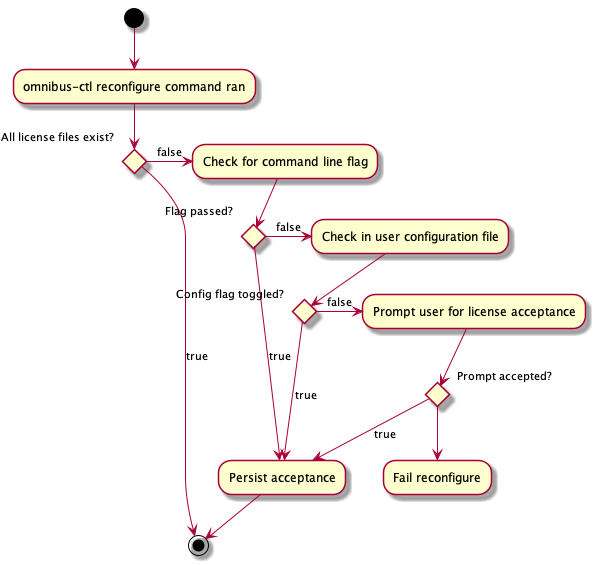
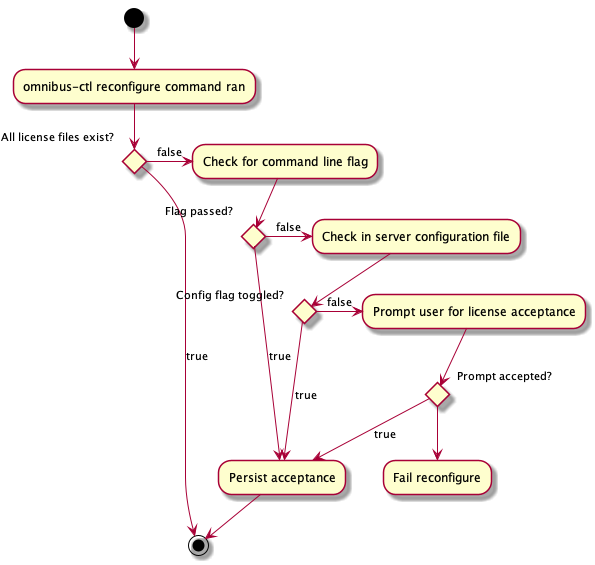
Updating for review comments

diff --git a/README.md b/README.md
@@ -1,5 +1,7 @@
 # Chef License Acceptance Flow
 
+> TODO: Table of contents and introduction
+
 # Specification
 
 1. Users of Chef products must have a positive confirmation of the Chef license before using each Chef product.
@@ -13,11 +15,16 @@
    of existing license acceptances should be transfered to the remote system. If the remote system needs to accept
    new product licenses it should prompt for that acceptance on the originating system.
     * For example, users install the ChefDK and accept the license for ChefDK, Test Kitchen, Inspec, etc. If the user
-      runs Test Kitchen and creates a remote system that installs Chef then the licenses from the originating machine
-      should be copied to the new machine. This prevents having to accept those licenses on the new machine.
-    * If Test Kitchen installs a new product on the remote machine (EG, Habitat) then Test Kitchen should prompt the user
-      to accept the habitat license on the originating machine. It should persist this acceptance and then copy it over
-      to the remote machine as well as any subsequent machines.
+      runs `knife bootstrap` against a remote system then the licenses from the originating machine
+      should be copied to the bootstrapped machine. This prevents having to accept those licenses on the new machine.
+    * > Would we copy across all local licenses or only ones for products we are installing on the remote machine?
+    * If a local tool installs a new product on the remote machine that does not have a local license persisted it
+      should prompt the user to accept the new license on the local machine. For example, imagine a user has accepted
+      the license for Test Kitchen locally but no other licenses. The user creates a remote machine with Test Kitchen
+      and installs Chef Client on the remote machine. Before trying to run Chef Client on the remote machine Test
+      Kitchen should take the user through a license acceptance flow locally, persist the accepted Chef Client license
+      and transfer it to the remote machine. This license should be persisted and used for all future Chef Client
+      runs, locally or remotely. Non acceptance should fail out the
 1. The products will persist the license acceptance so users are not required to accept the license on every use.
     * Note: The products will *attempt* to persist this information but some product usage (EG, on ephemeral machines)
       cannot be persisted.
@@ -37,7 +44,7 @@ https://www.tablesgenerator.com/markdown_tables#
 | Chef Workstation | Chef Backend          | Knife                          |
 | ChefDK           | Chef Server           | Chef Provisioning (DEPRECATED) |
 | Habitat binary   | Habitat Build Service |                                |
-| Inspec           | Habitat Supervisor    |                                |
+| InSpec           | Habitat Supervisor    |                                |
 | Push Jobs Client | Push Jobs Server      |                                |
 |                  | Supermarket           |                                |
 
@@ -51,7 +58,7 @@ In addition the following tools/products embed other products:
 These top level tools will need to present the license for both the top level tool and all embedded tools for user
 acceptance.
 
-> Do I need to accept the Inspec license to use it in kitchen-inspec?
+> Do I need to accept the InSpec license to use it in kitchen-inspec?
 
 ## Client Tools
 
@@ -61,7 +68,20 @@ Ruby based client-side tools can all be updated to match this specification by i
 library will be loaded by command line executables (EG, `chef-client`, `knife`, `inspec`, etc.) and used to enforce a
 a common UX for license acceptance.
 
+![](docs/client.png)
+
+The above diagram illustrates the UX flow of client side Ruby tools.
+
 For developers to consume this library, add the following lines to your executable's startup:
+
+```ruby
+require 'license_acceptance/acceptor'
+LicenseAcceptance::Acceptor.check_and_persist!('inspec', Inspec::VERSION)
+```
+
+This method performs the license acceptance flow documented below. If the user declines or cannot accept the license
+for some reason it prints a simple message to stdout and exits with code 210. If a developer wishes to customize
+this behavior they can instead add the following:
 
 ```ruby
 require 'license_acceptance/acceptor'
@@ -84,19 +104,30 @@ require "license_acceptance/cli_flags/mixlib_cli"
 include LicenseAcceptance::CLIFlags::MixlibCLI
 ```
 
-![](docs/client.png)
+The standard exit code of 210 is there to allow automated systems to detect a license acceptance failure and deal with
+it appropriately. Developers who consume this library can handle the exit logic differently but we recommend exiting 210
+to keep a consistent experience among all Chef Software products.
 
-The above diagram illustrates the UX flow of client side Ruby tools.
+#### License File Persistence
 
 If the user accepts the license a marker file is deposited at `#{ENV[HOME]}/.chef/accepted_licenses/`. These marker
 files prevents the user from getting prompted for license acceptance on subsequent runs. Currently we write some
 metadata to that file. However, when checking to see if the user has already accepted the license only the presence of
 the file matters. It can be completely empty. We hypothesize that the metadata may become useful in the future.
 
-> Do we want to have a unique exit code if they don't or cannot accept the license? This could potentially help CI,
-> but seems like something thats going to need user involvement anyways. Seems like we want a non-interactive custom
-> exit code so that tools like Test Kitchen can introspect the lack of acceptance from chef client and give users a
-> nice error message.
+If the user running is the `root` user then we write the marker file to `/etc/chef/accepted_licenses/`. On attempting
+to read and see if a license has been accepted:
+
+1. If the user is root
+    1. Check in `/etc/chef/accepted_licenses/` for an accepted license
+1. If the user is non-root
+    1. Check in `#{ENV[HOME]}/.chef/accepted_licenses/` for an accepted license
+    2. If none is found, check in `/etc/chef/accepted_licenses/`
+
+> Question for legal: This means that users could accept product licenses as the `root` user on a system (development
+> or production) and have accepted the license for all users on the system. Is this the desired behavior? Potentially
+> helps companies automate license acceptance because they can pre-seed all the license acceptance for shared developer
+> environments by accepting it initially as the root user. But does that violate our requirements?
 
 ### Habitat client tools
 
@@ -121,14 +152,14 @@ there are less opportunities to inject a license acceptance flow. License failur
 by seeing the service fail to start, which is not an ideal UX. We therefore try to have the user accept the license
 when they try to *manage* the service.
 
+> Legal question:
 > Do we want to have a service lock that causes the service start to fail if the management tool has not been ran?
 > Without a lock, we avoid failure conditions users may not be expecting. But is this okay if they somehow avoid
-> running the management tool? This should not be possible for any of our known products but someone could somehow
-> avoid running `chef-server-ctl reconfigure` if they manually configure the server themselves.
-
+> running the management tool?
 > Users upgrading are required to run `chef-server-ctl reconfigure` to trigger data migrations, but there is nothing
-> today that *requires* them to do this. Maybe a requirement of running a `reconfigure` command on upgrade would be
-> enough to meet our requirements?
+> technical today that *requires* them to do this. Their service simply won't work correctly. My understanding is that
+> customers do run this command on an upgrade because we tell them to do that. Is going through this 'standard flow'
+> enough enforcement?
 
 There are two broad types of server side tools we manage - omnibus packaged tools and hab managed tools.
 
@@ -139,14 +170,14 @@ the license acceptance flow into these commands. All the products require some k
 before the product will start. That should prevent users from running the application in a meaningful way without
 encountering the license acceptance flow.
 
-The one difference from the client products is that the server products also contain a user managed configuration file
-where the license can be accepted. The flow therefore is updated to:
+The one difference from the client products is that the server products also contain a user managed service
+configuration file where the license can be accepted. The flow therefore is updated to:
 
 ![](docs/server.png)
 
-Another difference from the client products is the server products typically run as some kind of service user. Because
-of this we should persist the license acceptance files to `/etc/chef/license_acceptance/` instead of `#{ENV[HOME]}/.chef/accepted_licenses/`. The omnibus-ctl commands require customers to run this command as root today so we should
-have write permissions to this directory, but may need to change this directory to be configurable in the future.
+See the [License File Persistence](#license-file-persistence) section for information on how the license is persisted.
+The omnibus-ctl commands require customers to run as the `root` user so licenses are persisted to the
+`/etc/chef/accepted_licenses` directory.
 
 Omnibus managed products can leverage the shared library in the `license-acceptance` gem to facilitate the license
 acceptance flow.
@@ -181,7 +212,8 @@ could be set by applying that config to each service group in habitat.
 > `hab license accept chef/a2 chef/chef-client`
 
 > We should store product list in a centralized location that all products (ruby based or hab based) can read license
-> information from. Better to only have to manage this 1 place.
+> information from. Better to only have to manage this 1 place. That could probably be this repo and we could distribute
+> that list in all the forms consumers need it (EG, rubygem, cargo crate, hab package, etc.)
 
 Habitat can run services in an ephimeral environment. In this case it is not possible to persist the license acceptance
 information anywhere. Rather than try to solve this problem by having customers mount a persistent drive to store
@@ -192,10 +224,22 @@ every time the service is started.
 
 > TODO
 
+> One issue we have is that someone using Habitat or Test Kitchen locally may end up needed to accept quite a lot of
+> licenses to manage remote machines. We should consider some tool like `hab license accept` to accept licenses for
+> an array of products in bulk. Probably something like `chef accept license --all` since Chef Workstation is
+> our tool to manage all Chef Software products on user workstations.
+
 ## Upgrade Guidance for Customers
 
 > TODO
 
+> See note in [Remote Management Tools](#remote-management-tools) about accepting bulk licenses locally. Also need a
+> way to accept licenses for fleets of pre-installed products. Breaking customers on upgrade without warning them and
+> giving them tools to prevent the breakage is a non-starter.
+
+> We REALLY need to get this information to users and customers ahead of time to make sure all these flows will work
+> for them.
+
 ## Windows
 
-> TODO: any special notes about Windows tools
+> TODO: any special notes about Windows tools. Probably something about where we persist licenses acceptance information.
